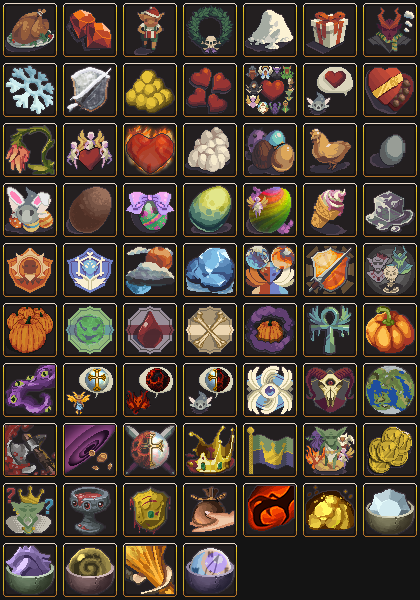
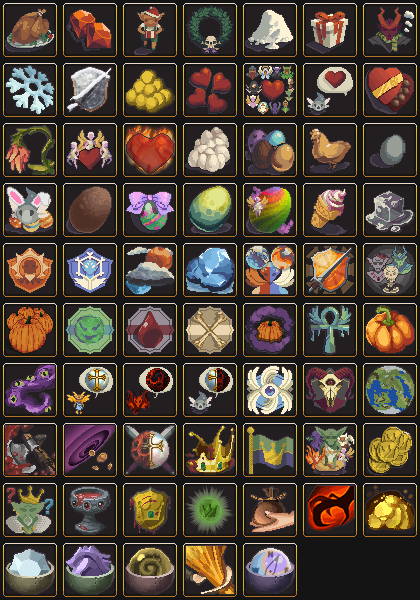
Goblin Invasion

Changed region(s): [[0.1548, 0.81, 0.9905, 1.0], [0.0, 0.9, 0.1238, 0.96]]

diff --git a/Events/index.php b/Events/index.php
@@ -221,7 +221,7 @@
 			" coords="3,3,57,57" shape="rect">
 			<area research="
 			<p><b><img src='/realm/Factions/picks/RubyShineUpgrade.png' align='middle'> Ruby Shine</b></p>
-			<p><b>Type</b>: Feat</p>					
+			<p><b>Type</b>: Feat</p>
 			<p><b>Requirement</b>: Play during the Ruby Shine event.</p>
 			<p><b>Effect</b>: Increase the production of all buildings based on the amount of Rubies you own for the duration of the Ruby Shine event.</p>
 			<p><b>Formula</b>: (x ^ 1.15)%, where x is Rubies owned.</p>
@@ -299,7 +299,7 @@
 			<p><b>Requirement</b>: Cast Call to Love at least once with 6 different factions.</p>
 			" coords="243,63,297,117" shape="rect">
 			<area research="
-			<p><b>Valentines 2018</b></p>
+			<p><b>Valentines</b></p>
 			<p><b><img src='/realm/Factions/picks/AssistantLove2018.png' align='middle'> Assistant Love</b></p>
 			<p><b>Type</b>: Feat</p>
 			<p><b>Requirement</b>: Reach 50 assistants with Heart Upgrades only.</p>
@@ -307,7 +307,7 @@
 			<p><b>Note</b>: If you unlock this feat, you will permanently unlock a new color option for the mana bar.</p>
 			" coords="303,63,357,117" shape="rect">
 			<area research="
-			<p><b>Valentines 2019</b></p>
+			<p><b>Valentines</b></p>
 			<p><b><img src='/realm/Factions/picks/ChocolateBoxFeat2019.png' align='middle'> Chocolate Box</b></p>
 			<p><b>Type</b>: Feat</p>
 			<p><b>Requirement</b>: Have at least 72 hours of Call to Love activity time during the Valentine event.</p>
@@ -317,7 +317,7 @@
 			<p><b>Note</b>: This Feat is not needed to unlock new mana color.</p>
 			" coords="363,63,417,117" shape="rect">
 				<area research="
-			<p><b>Valentines 2021</b></p>
+			<p><b>Valentines</b></p>
 			<p><b><img src='/realm/Factions/picks/UnrequitednessFeat2021.png' align='middle'> Unrequitedness</b></p>
 			<p><b>Type</b>: Feat</p>
 			<p><b>Requirement</b>: Cast Call to Love while being affiliated with a Neutral Faction and with at least 2 hours of activity time with the spell during the Valentine event.</p>
@@ -327,16 +327,16 @@
 			<p><b>Note</b>: This Feat is not needed to unlock new mana color.</p>
 			" coords="3,123,57,177" shape="rect">
 			<area research="
-			<p><b>Valentines 2020</b></p>
+			<p><b>Valentines</b></p>
 			<p><b><img src='/realm/Factions/picks/FairyLove.png' align='middle'> Fairy Love</b></p>
-			<p><b>Type</b>: Feat</p>					
+			<p><b>Type</b>: Feat</p>
 			<p><b>Requirement</b>: While affiliated with the fairies, click 1000 times during the Valentine event.</p>
 			<p><b>Note</b>: If you unlock this feat, you will permanently unlock a new cosmetic shape for your coin particles.</p>
 			" coords="63,123,117,177" shape="rect">
 			<area research="
-			<p><b>Valentines 2022</b></p>
+			<p><b>Valentines</b></p>
 			<p><b><img src='/realm/Factions/picks/BurningPassion.png' align='middle'> Burning Passion</b></p>
-			<p><b>Type</b>: Feat</p>					
+			<p><b>Type</b>: Feat</p>
 			<p><b>Requirement</b>: Have at least 2 hour of Hellfire Blast activity time during the Valentine event.</p>
 			<p><b>Note</b>: If you unlock this feat, you will permanently unlock a new icon option for the spell.</p>
 			" coords="123,123,177,177" shape="rect">
@@ -370,14 +370,14 @@
 			<p><b>Note</b>: If you unlock all of this event's feats, you will permanently unlock a new color option for the mana bar.</p>
 			" coords="363,123,417,177" shape="rect">
 			<area research="
-			<p><b>Easter 2018</b></p>
+			<p><b>Easter</b></p>
 			<p><b><img src='/realm/Factions/picks/BunnyHelpers2018.png' align='middle'> Bunny Helpers</b></p>
 			<p><b>Type</b>: Feat</p>
 			<p><b>Requirement</b>: Collect at least 480 Eggs with a single click while having exactly 480 assistants.</p>
 			<p><b>Note</b>: If you unlock all of this event's feats, you will permanently unlock a new color option for the mana bar.</p>
 			" coords="3,183,57,237" shape="rect">
 			<area research="
-			<p><b>Easter 2019</b></p>
+			<p><b>Easter</b></p>
 			<p><b><img src='/realm/Factions/picks/ChocolateEgg2019.png' align='middle'> Chocolate Egg</b></p>
 			<p><b>Type</b>: Feat</p>
 			<p><b>Requirement</b>: Collect at least 480 Eggs with a single click while having at least 3 active spells.</p>
@@ -387,14 +387,14 @@
 			<p><b>Note</b>: Once unlocked, it is available during any Seasonal Event.</p>
 			" coords="63,183,117,237" shape="rect">
 			<area research="
-			<p><b>Easter 2020</b></p>
+			<p><b>Easter</b></p>
 			<p><b><img src='/realm/Factions/picks/Eggsceptional.png' align='middle'> Eggsceptional</b></p>
 			<p><b>Type</b>: Feat</p>
 			<p><b>Requirement</b>: Collect a full stack of 720 Eggs at any time during the Easter event.</p>
 			<p><b>Note</b>: If you unlock this feat, you will permanently unlock a new cosmetic shape for your coin particles.</p>
 			" coords="123,183,177,237" shape="rect">
 			<area research="
-			<p><b>Easter 2021</b></p>
+			<p><b>Easter</b></p>
 			<p><b><img src='/realm/Factions/picks/RottenEgg2021.png' align='middle'> Rotten Egg</b></p>
 			<p><b>Type</b>: Feat</p>
 			<p><b>Requirement</b>: Collect a full stack of 720 Eggs while being affiliated with the Undead.</p>
@@ -403,12 +403,12 @@
 			<p><b>Note</b>: Once unlocked, it is available during any Seasonal Event.</p>
 			" coords="183,183,237,237" shape="rect">
 			<area research="
-			<p><b>Easter 2022</b></p>
+			<p><b>Easter</b></p>
 			<p><b><img src='/realm/Factions/picks/Colorfull.png' align='middle'> Colorfull</b></p>
-			<p><b>Type</b>: Feat</p>					
+			<p><b>Type</b>: Feat</p>
 			<p><b>Requirement</b>: Collect a stack of at least 720 Eggs while Fairy Chanting is active.</p>
 			<p><b>Note</b>: If you unlock this feat, you will permanently unlock a new icon option for the spell.</p>
-			" coords="243,183,297,237" shape="rect">			
+			" coords="243,183,297,237" shape="rect">
 			<area research="
 			<p><b>Summer Festival</b></p>
 			<p><b><img src='/realm/Factions/picks/ChillOut.png' align='middle'> Chill Out</b></p>
@@ -595,7 +595,7 @@
 			<area research="
 			<p><b>Anniversary - Blood War</b></p>
 			<p><b><img src='/realm/Factions/picks/PlanarTax.png' align='middle'> Planar Tax</b></p>
-			<p><b>Type</b>: Feat</p>					
+			<p><b>Type</b>: Feat</p>
 			<p><b>Requirement</b>: Collect a stack of at least 720 of any resource in a game with at least 1000 Tax Collection casts.</p>
 			<p><b>Note</b>: If you unlock this feat, you will permanently unlock a new icon option for the spell.</p>
 			" coords="63,423,117,477" shape="rect">
@@ -662,54 +662,61 @@
 			<p><b>Note</b>: Once unlocked, it is available during any Seasonal Event.</p>
 			" coords="123,483,177,537" shape="rect">
 			<area research="
+			<p><b>Goblin Invasion</b></p>
+			<p><b><img src='/realm/Factions/picks/UnderaGreenSun.png' align='middle'> Under a Green Sun</b></p>
+			<p><b>Type</b>: Feat</p>
+			<p><b>Requirement</b>: Collect a stack of at least 720 Goblin Crowns while having at least 2 hours of Goblin's Greed activity time in this Reincarnation (BUGGED: check is 2 hours this game).</p>
+			<p><b>Note</b>: If you unlock this feat, you will permanently unlock a new icon option for the spell.</p>
+			" coords="183,483,237,537" shape="rect">
+			<area research="
 			<p><b>Idillium</b></p>
 			<p><b><img src='/realm/Factions/picks/GentleCollector.png' align='middle'> Gentle Collector</b></p>
 			<p><b>Type</b>: Feat</p>
 			<p><b>Requirement</b>: Collect at least 720 Entropic Drops with a single click while affiliated with the Fairies.</p>
 			<p><b>Note</b>: If you unlock all of this event's feats, you will permanently unlock a new color option for the mana bar.</p>
-			" coords="183,483,237,537" shape="rect">
+			" coords="243,483,297,537" shape="rect">
 			<area research="
 			<p><b>Idillium</b></p>
 			<p><b><img src='/realm/Factions/picks/AggressiveCollector.png' align='middle'> Aggressive Collector</b></p>
 			<p><b>Type</b>: Feat</p>
 			<p><b>Requirement</b>: Collect at least 720 Crystal Prisms with a single click while affiliated with the Undead.</p>
 			<p><b>Note</b>: If you unlock all of this event's feats, you will permanently unlock a new color option for the mana bar.</p>
-			" coords="243,483,297,537" shape="rect">
+			" coords="303,483,357,537" shape="rect">
 			<area research="
 			<p><b>Idillium</b></p>
 			<p><b><img src='/realm/Factions/picks/GoldenAge.png' align='middle'> Golden Age</b></p>
 			<p><b>Type</b>: Feat</p>
 			<p><b>Requirement</b>: Cast Remnant spells at least 1000 times.</p>
 			<p><b>Note</b>: If you unlock all of this event's feats, you will permanently unlock a new color option for the mana bar.</p>
-			" coords="303,483,357,537" shape="rect">
+			" coords="363,483,417,537" shape="rect">
 			<area research="
 			<p><b>Idillium</b></p>
 			<p><b><img src='/realm/Factions/picks/OrderRestoration.png' align='middle'> Order Restoration</b></p>
 			<p><b>Type</b>: Feat</p>
 			<p><b>Requirement</b>: Upgrade Order Remnant to Level 15.</p>
 			<p><b>Note</b>: If you unlock all of this event's feats, you will permanently unlock a new color option for the mana bar.</p>
-			" coords="363,483,417,537" shape="rect">
+			" coords="3,543,57,597" shape="rect">
 			<area research="
 			<p><b>Idillium</b></p>
 			<p><b><img src='/realm/Factions/picks/ChaosRestoration.png' align='middle'> Chaos Restoration</b></p>
 			<p><b>Type</b>: Feat</p>
 			<p><b>Requirement</b>: Upgrade Chaos Remnant to Level 15.</p>
 			<p><b>Note</b>: If you unlock all of this event's feats, you will permanently unlock a new color option for the mana bar.</p>
-			" coords="3,543,57,597" shape="rect">
+			" coords="63,543,117,597" shape="rect">
 			<area research="
 			<p><b>Idillium</b></p>
 			<p><b><img src='/realm/Factions/picks/BalanceRestoration.png' align='middle'> Balance Restoration</b></p>
 			<p><b>Type</b>: Feat</p>
 			<p><b>Requirement</b>: Upgrade Balance Remnant to Level 15.</p>
 			<p><b>Note</b>: If you unlock all of this event's feats, you will permanently unlock a new color option for the mana bar.</p>
-			" coords="63,543,117,597" shape="rect">
+			" coords="123,543,177,597" shape="rect">
 			<area research="
 			<p><b>Idillium</b></p>
 			<p><b><img src='/realm/Factions/picks/BalancedCollector.png' align='middle'> Balanced Collector</b></p>
 			<p><b>Type</b>: Feat</p>
 			<p><b>Requirement</b>: While affiliated with the Druids, collect a stack of at least 720 Equilibrium Fragments.</p>
 			<p><b>Note</b>: If you unlock this feat, you will permanently unlock a new cosmetic shape for your coin particles.</p>
-			" coords="123,543,177,597" shape="rect">
+			" coords="183,543,237,597" shape="rect">
 			<area research="
 			<p><b>Idillium</b></p>
 			<p><b><img src='/realm/Factions/picks/IdilliumExplorer.png' align='middle'> Idillium Explorer</b></p>
@@ -718,7 +725,7 @@
 			<p><b>Note</b>: If you unlock this feat, you will permanently unlock a new upgrade with the same name.</p>
 			<p><b>Effect</b>: Reduce the cost of all spells by 10%.</p>
 			<p><b>Note</b>: Once unlocked, it is available during any Seasonal Event.</p>
-			" coords="183,543,237,597" shape="rect">
+			" coords="243,543,297,597" shape="rect">
 		</map>
 	</p>
 	</center>
@@ -900,9 +907,9 @@
 		<p onclick="shohid($(this));"><b> <a href="#" onclick="return false;">2022 Events</a></b></p>
 		<div class="category autohide">
 			<div class="shelementwhole">
-				<p onclick="shohid($(this));"><b><a href="#" onclick="return false;">Goblin Invasion (Jul 11 - Jul 15, 2022)</a></b></p>
+				<p onclick="shohid($(this));"><b><a href="#" onclick="return false;">Goblin Invasion (Jul 13 - Jul 17, 2022)</a></b></p>
 				<div class="autohide">
-					<p>The Goblin Invasion event will be starting on <b>Jul 11th 2022, 12:01 PM UTC</b> and will end on <b>Jul 15th 2022, 6:59 PM UTC</b>.</p>
+					<p>The Goblin Invasion event will be starting on <b>Jul 13th 2022, 12:01 PM UTC</b> and will end on <b>Jul 17th 2022, 6:59 PM UTC</b>.</p>
 					<p><b><img src="/realm/Factions/picks/TheGreatestArmy2017.png" alt="The Greatest Army" align="middle"> The Greatest Army</b></p>
 					<p><b>Cost</b>: Free</p>
 					<p><b>Effect</b>: Increase the production of all buildings based on the total amount of Goblin Crowns collected.</p>
@@ -1006,6 +1013,10 @@
 					<p><b>Note</b>: If you unlock this feat, you will permanently unlock a new upgrade with the same name.</p>
 					<p><b>Effect</b>: Increase production bonus from Gems by a multiplicative 10%.</p>
 					<p><b>Note</b>: Once unlocked, it is available during any Seasonal Event.</p>
+					<br/>
+					<p><b><img src="/realm/Factions/picks/UnderaGreenSun.png" align="middle"> Under a Green Sun</b></p>
+					<p><b>Requirement</b>: Collect a stack of at least 720 Goblin Crowns while having at least 2 hours of Goblin's Greed activity time in this Reincarnation (BUGGED: check is 2 hours this game).</p>
+					<p><b>Note</b>: If you unlock this feat, you will permanently unlock a new icon option for the spell.</p>
 					<hr>
 					<p><b>Shop Item</b></p>
 					<p><b><img src="/realm/Factions/picks/75GoblinCrowns2017.png" align="middle"> 75 Goblin Crowns</b></p>
@@ -1039,7 +1050,6 @@
 							width: 100%;
 							text-align: left;
 						}
-
 						div#images div {
 							display: inline-block;
 						}
@@ -1643,13 +1653,11 @@
 					<p>As usual, there will be Quests and Feats to unlock: you will be able to find every information you need in the Events panel in game!</p>
 					<p>Remember that all Halloween upgrades and their bonuses will disappear after the event is over, with the exception of Quest bonuses and Feat achievements.</p>
 					<hr>
-
 					<style>
 						div#images {
 							width: 100%;
 							text-align: left;
 						}
-
 						div#images div {
 							display: inline-block;
 						}
@@ -1891,7 +1899,6 @@
 							width: 100%;
 							text-align: left;
 						}
-
 						div#images div {
 							display: inline-block;
 						}
@@ -2367,7 +2374,6 @@
 							width: 100%;
 							text-align: left;
 						}
-
 						div#images div {
 							display: inline-block;
 						}
@@ -2951,13 +2957,11 @@
 					<p>As usual, there will be Quests and Feats to unlock: you will be able to find every information you need in the Events panel in game!</p>
 					<p>Remember that all Halloween upgrades and their bonuses will disappear after the event is over, with the exception of Quest bonuses and Feat achievements.</p>
 					<hr>
-
 					<style>
 						div#images {
 							width: 100%;
 							text-align: left;
 						}
-
 						div#images div {
 							display: inline-block;
 						}
@@ -3192,7 +3196,6 @@
 							width: 100%;
 							text-align: left;
 						}
-
 						div#images div {
 							display: inline-block;
 						}
@@ -3649,7 +3652,6 @@
 							width: 100%;
 							text-align: left;
 						}
-
 						div#images div {
 							display: inline-block;
 						}
@@ -4211,13 +4213,11 @@
 					<p>As usual, there will be Quests and Feats to unlock: you will be able to find every information you need in the Events panel in game!</p>
 					<p>Remember that all Halloween upgrades and their bonuses will disappear after the event is over, with the exception of Quest bonuses and Feat achievements.</p>
 					<hr>
-
 					<style>
 						div#images {
 							width: 100%;
 							text-align: left;
 						}
-
 						div#images div {
 							display: inline-block;
 						}
@@ -4446,7 +4446,6 @@
 							width: 100%;
 							text-align: left;
 						}
-
 						div#images div {
 							display: inline-block;
 						}
@@ -4883,7 +4882,6 @@
 							width: 100%;
 							text-align: left;
 						}
-
 						div#images div {
 							display: inline-block;
 						}
@@ -5517,7 +5515,6 @@
 							width: 100%;
 							text-align: left;
 						}
-
 						div#images div {
 							display: inline-block;
 						}
